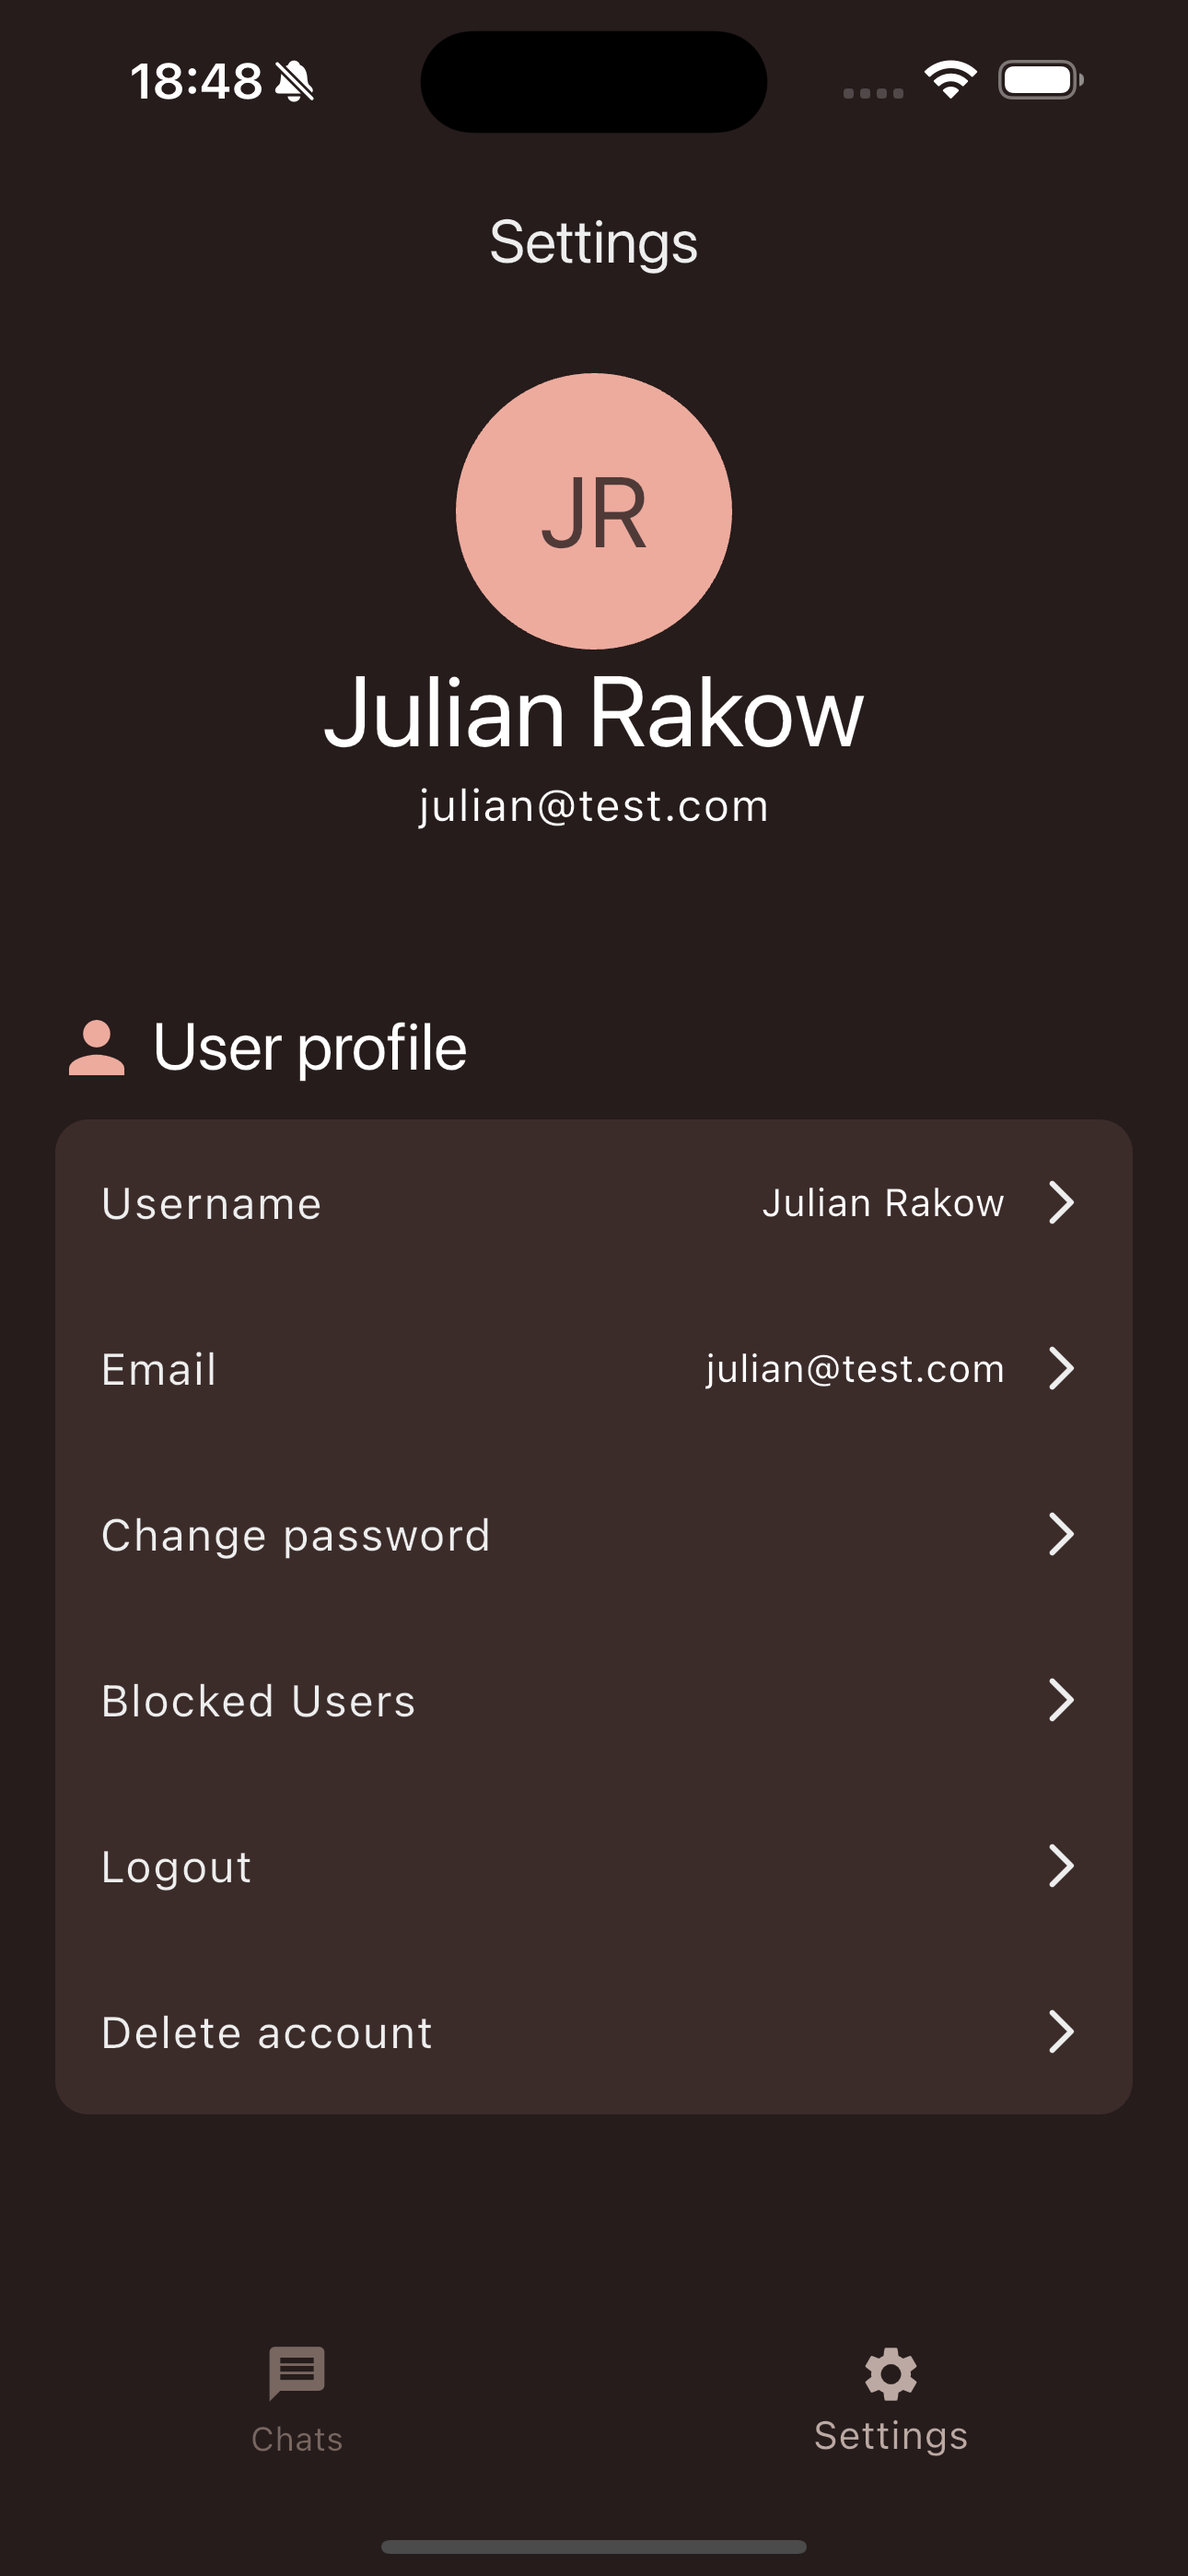
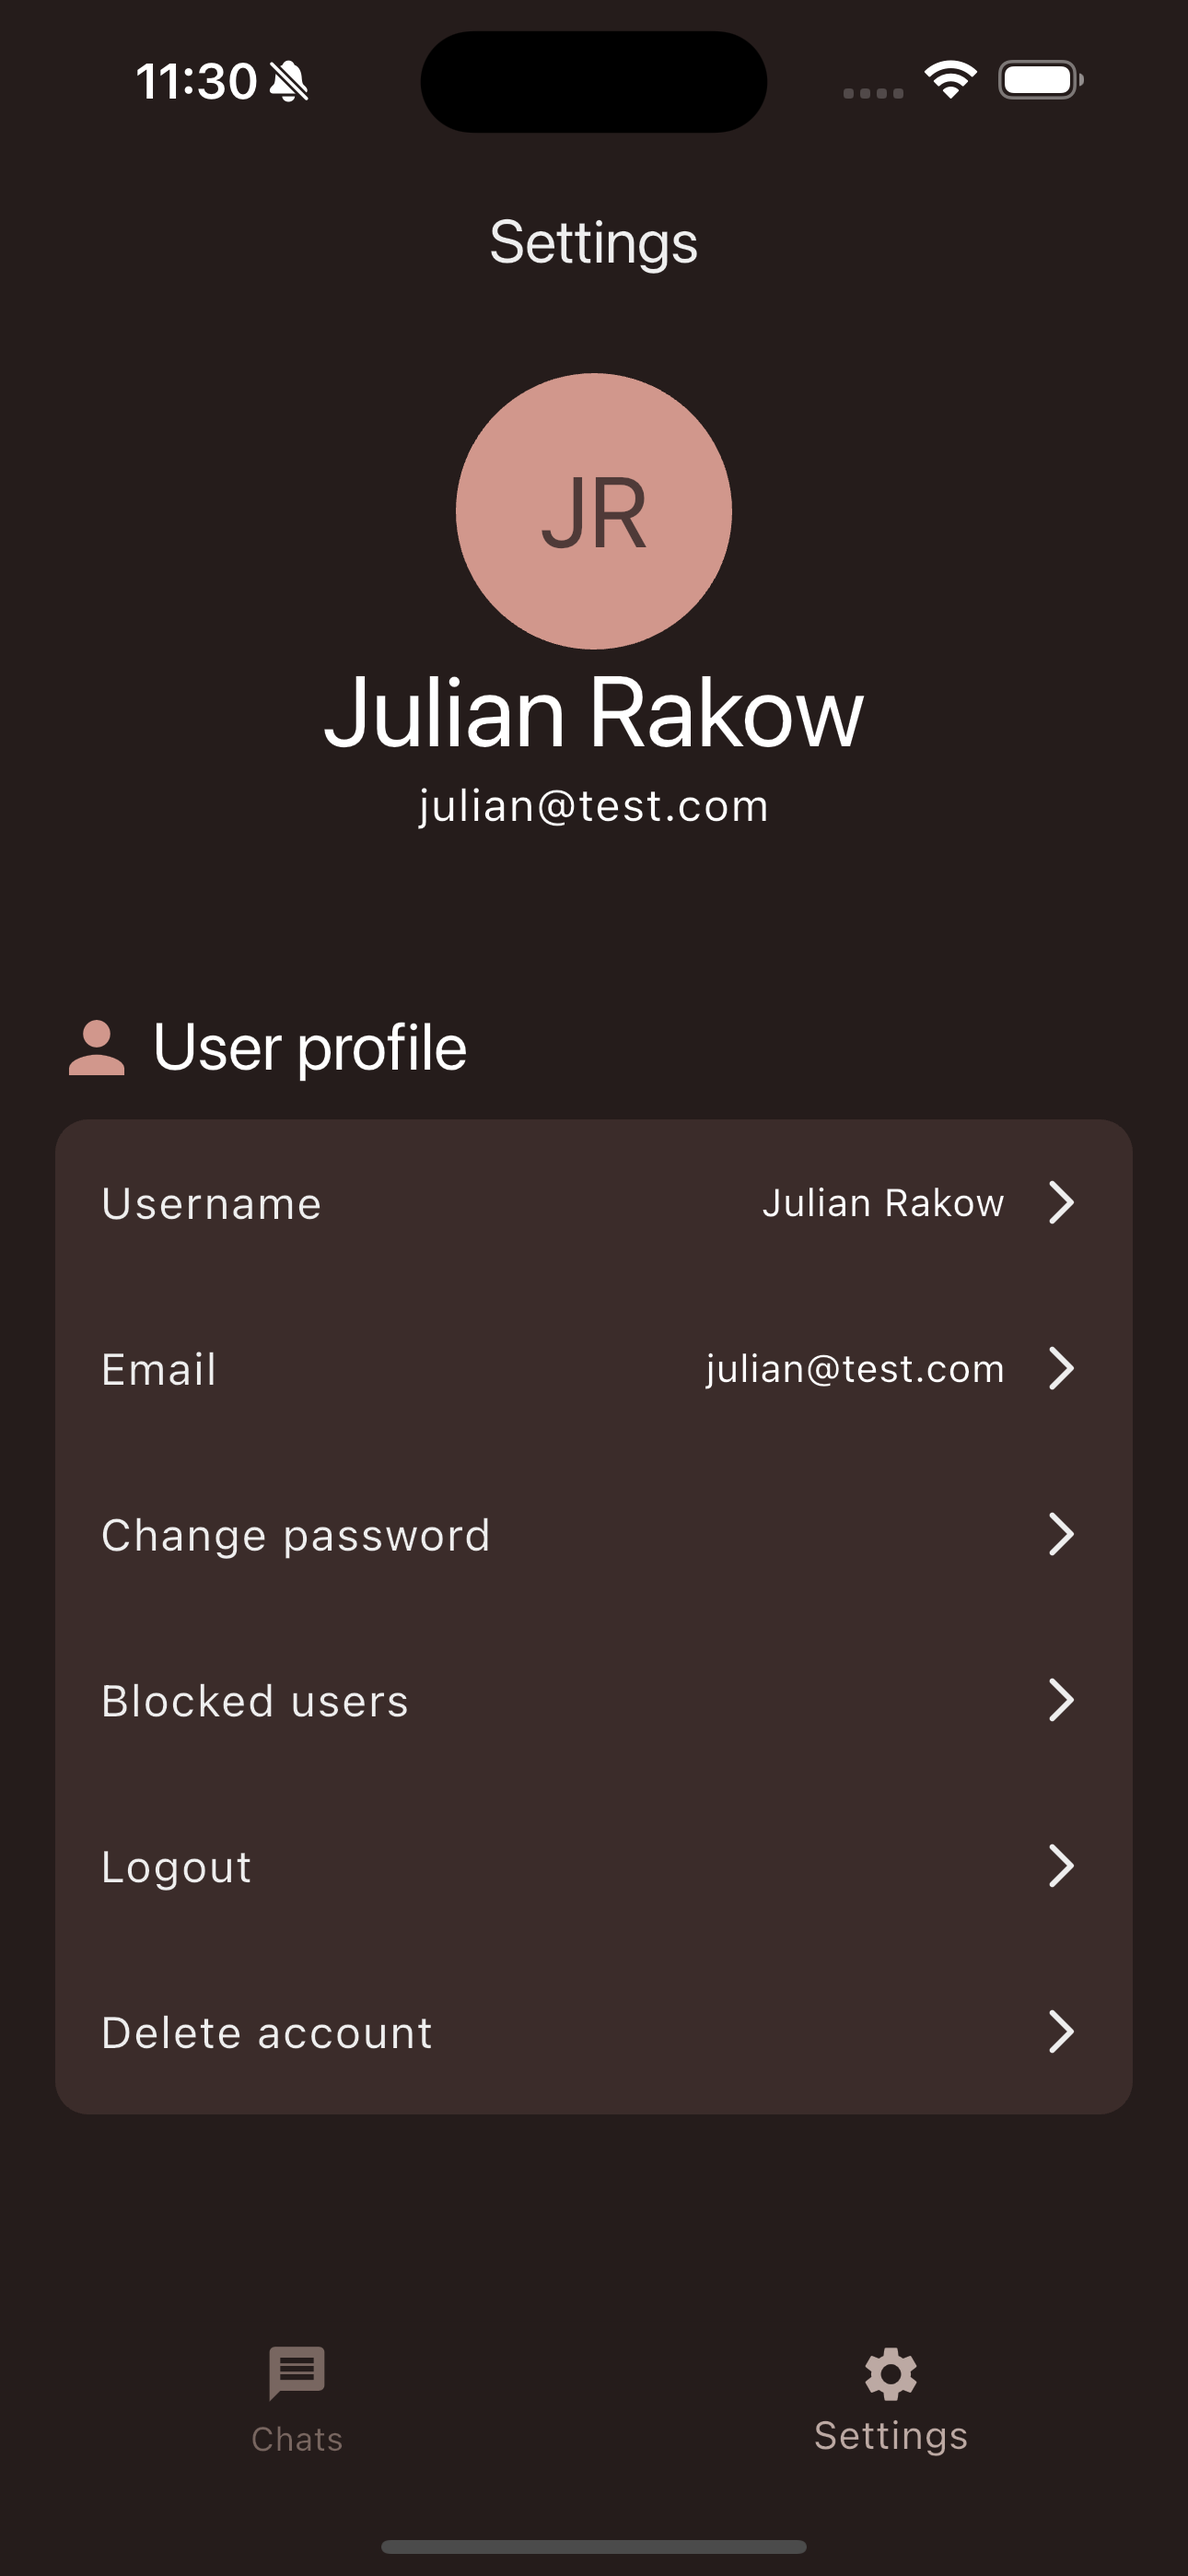
fix: add missing isOnline field on user creation style: adjust colors for more contrast docs: update GitHub readme

diff --git a/lib/features/chat/presentation/widgets/message_list_bubble.dart b/lib/features/chat/presentation/widgets/message_list_bubble.dart
@@ -60,10 +60,11 @@ class MessageListBubble extends StatelessWidget {
             constraints: BoxConstraints(maxWidth: MediaQuery.of(context).size.width * 0.66),
             child: Container(
               decoration: BoxDecoration(
-                  color: isCurrentUser
-                      ? AppColors.highlight
-                      : (isDarkMode ? Theme.of(context).colorScheme.tertiary : Theme.of(context).colorScheme.tertiary),
-                  borderRadius: borderRadius),
+                color: isCurrentUser
+                    ? AppColors.highlight
+                    : (isDarkMode ? Theme.of(context).colorScheme.tertiary : Theme.of(context).colorScheme.tertiary),
+                borderRadius: borderRadius,
+              ),
               padding: EdgeInsets.all(10),
               child: Column(
                 crossAxisAlignment: isCurrentUser ? CrossAxisAlignment.end : CrossAxisAlignment.start,
@@ -138,7 +139,13 @@ class MessageListBubble extends StatelessWidget {
               context.read<ChatBloc>().add(ReportMessage(userId, messageId));
               Navigator.pop(context);
               ScaffoldMessenger.of(context).showSnackBar(
-                const SnackBar(content: Text("Message reported.")),
+                const SnackBar(
+                  content: Text(
+                    "Message reported.",
+                    style: TextStyle(color: Colors.white),
+                  ),
+                  backgroundColor: AppColors.highlight,
+                ),
               );
             },
             child: const Text("Report"),

diff --git a/lib/features/settings/presentation/screens/settings_screen.dart b/lib/features/settings/presentation/screens/settings_screen.dart
@@ -13,8 +13,6 @@ import 'package:messenger_app/features/settings/presentation/widgets/user_profil
 import 'package:messenger_app/features/users/cubits/current_user_cubit.dart';
 import 'package:messenger_app/features/users/cubits/current_user_state.dart';
 
-import 'package:provider/provider.dart';
-
 class SettingsScreen extends StatelessWidget {
   const SettingsScreen({super.key});
 
@@ -47,6 +45,7 @@ class SettingsScreen extends StatelessWidget {
               return CircularProgressIndicator();
             }
             if (state is CurrentUserError) {
+              debugPrint(state.message);
               return Text(state.message);
             }
             if (state is CurrentUserLoaded) {
@@ -109,7 +108,10 @@ class SettingsScreen extends StatelessWidget {
                             ),
                             SettingsListTile(
                               title: "Logout",
-                              onTap: () => context.read<AuthBloc>().add(LogoutRequested()),
+                              onTap: () {
+                                context.read<CurrentUserCubit>().updateOnlineStatus(false);
+                                context.read<AuthBloc>().add(LogoutRequested());
+                              },
                             ),
                             SettingsListTile(
                               title: "Delete account",

diff --git a/lib/features/users/bloc/user_bloc.dart b/lib/features/users/bloc/user_bloc.dart
@@ -54,7 +54,9 @@ class UserBloc extends Bloc<UserEvent, UserState> {
         Rx.combineLatest2<List<Userdata>, List<Userdata>, UsersLoaded>(
           permittedStream,
           blockedStream,
-          (permitted, blocked) => UsersLoaded(permitted, blocked),
+          (permitted, blocked) {
+            return UsersLoaded(permitted, blocked);
+          },
         ),
         onData: (state) => state,
         onError: (error, stackTrace) => UserError(error.toString()),

diff --git a/lib/features/chat/presentation/screens/chat_screen.dart b/lib/features/chat/presentation/screens/chat_screen.dart
@@ -99,7 +99,7 @@ class _ChatScreenState extends State<ChatScreen> with WidgetsBindingObserver {
                 final lastSeen = state.userdata!.lastSeen;
 
                 if (!isOnline) {
-                  onlineStatus = "last seen at ${DateFormat.Hms().format(lastSeen)}";
+                  onlineStatus = "last seen at ${DateFormat.Hm().format(lastSeen)}";
                 } else {
                   onlineStatus = "online";
                 }

diff --git a/lib/features/chat/bloc/chat_bloc.dart b/lib/features/chat/bloc/chat_bloc.dart
@@ -26,7 +26,9 @@ class ChatBloc extends Bloc<ChatEvent, ChatState> {
     emit(ChatLoading());
     await emit.forEach<List<Message>>(
       _chatRepo.watchChatroomMessages(event.chatPartnerId, _authRepo.getCurrentUser()),
-      onData: (messages) => ChatLoaded(messages),
+      onData: (messages) {
+        return ChatLoaded(messages);
+      },
       onError: (error, stackTrace) => ChatError(error.toString()),
     );
   }

diff --git a/lib/core/theme/custom_colors.dart b/lib/core/theme/custom_colors.dart
@@ -2,7 +2,7 @@ import 'dart:ui';
 
 class AppColors {
   // light theme
-  static const Color highlight = Color.fromRGBO(237, 171, 158, 1);
+  static const Color highlight = Color.fromRGBO(209, 151, 140, 1);
   static const Color lightAppBackground = Color.fromRGBO(255, 238, 235, 1);
   static const Color secondaryLight = Color.fromRGBO(236, 207, 201, 1);
   static const Color tertiaryLight = Color.fromRGBO(242, 221, 217, 1);

diff --git a/lib/features/auth/presentation/widgets/custom_button.dart b/lib/features/auth/presentation/widgets/custom_button.dart
@@ -15,7 +15,7 @@ class CustomButton extends StatelessWidget {
     return Padding(
       padding: const EdgeInsets.symmetric(horizontal: 25.0),
       child: Material(
-        color: Theme.of(context).colorScheme.secondary,
+        color: Theme.of(context).highlightColor,
         borderRadius: BorderRadius.circular(8),
         clipBehavior: Clip.antiAlias,
         child: InkWell(

diff --git a/lib/features/users/data/provider/firestore_userdata_api.dart b/lib/features/users/data/provider/firestore_userdata_api.dart
@@ -19,6 +19,7 @@ class FirestoreUserdataApi implements UserdataApi {
       'unreadCount': 0,
       'createdAt': FieldValue.serverTimestamp(),
       'lastSeen': FieldValue.serverTimestamp(),
+      'isOnline': true,
     });
   }
 

diff --git a/README.md b/README.md
@@ -2,12 +2,12 @@
 
 A Flutter-based messaging application built with Firebase Authentication, Cloud Firestore, and the BLoC state management pattern. The project is structured around a modular feature-based architecture, providing clear separation between authentication, chat, user management, settings, notifications, and theming.
 
-This repository represents an in-progress messaging platform. It currently supports core functionality such as account creation, login, chat messaging, and user blocking. Future iterations will integrate contact-based discovery so users can chat with people from their phone address book who also use the app.
+This repository represents an in-progress messaging platform. It currently supports core functionality such as account creation, login, chat messaging, message reporting and user blocking. It also shows the chat partner's current online status or the last time they were online. Future iterations will integrate profile pictures so users can upload an image from their gallery via an image picker. Also planned: A contact-based discovery so users can chat with people from their phone address book who also use the app.
 
 ## Features
 
 ### Authentication
-- Create an account using username, email, and password (phone number authentication planned for later versions).
+- Create an account using username, email, and password (might be replaced with phone number authentication in later versions).
 - Log in and log out.
 - Delete an account.
 - Real-time authentication state handling via Firebase Auth and AuthBloc.
@@ -26,8 +26,8 @@ This repository represents an in-progress messaging platform. It currently suppo
 ### Chat
 - One-to-one messaging built on top of Cloud Firestore.
 - Real-time updates for new messages and unread message counts.
-- Message timestamps, date grouping, and read indicators.
-- Displays all users for now, but will later show only contacts who use the app.
+- Message timestamps, date grouping, and online status/"last time online at"
+- Displays all users for now, but will later show only contacts who use the app
 
 <table>
 <tr>
@@ -41,15 +41,16 @@ This repository represents an in-progress messaging platform. It currently suppo
 <p></p>
 
 ### User Management
-- Fetch user data from Firestore.
-- Display users in the chat list.
-- Block and unblock users.
-- User profiles with name and email.
+- Fetch user data from Firestore
+- Display users in the chat list
+- Block and unblock users
+- Report messages
+- User profiles with name and email
 
 ### Settings
-- Adjustable theme (light and dark mode).
-- User profile screen including username and email.
-- Section for blocked users.
+- Adjustable theme (light and dark mode)
+- User profile screen including username and email
+- Section for blocked users
 
 <table>
 <tr>
@@ -63,11 +64,11 @@ This repository represents an in-progress messaging platform. It currently suppo
 <p></p>
 
 ### Theming and UI
-- Custom theme configuration (light and dark themes).
-- Centralized color definitions.
-- Reusable widgets such as input fields, buttons, tiles, and list views.
-- Scaffold with drawer navigation.
-- Clean feature-based architecture.
+- Custom theme configuration (light and dark themes)
+- Centralized color definitions
+- Reusable widgets such as input fields, buttons, tiles, and list views
+- Scaffold with drawer navigation
+- Clean feature-based architecture
 
 ## Project Structure
 
@@ -135,13 +136,13 @@ This approach improves code organization, scalability, and testability as the ap
 3. Run the application  
    `flutter run`
 
-Ensure that your Firebase project is correctly linked before running the app.
+Ensure that your Firebase project is correctly linked before running the app
 
 ## Future Plans
 
-- Profile customization.
-- Media sharing (images, videos).
-- Group chats.
-- Replace email/password login with phone number authentication.
-- Contact discovery to show only users from the device address book.
-- Push notifications for messages.
+- Profile customization
+- Media sharing (images, videos)
+- Group chats
+- Replace email/password login with phone number authentication
+- Contact discovery to show only users from the device address book
+- Push notifications for messages
